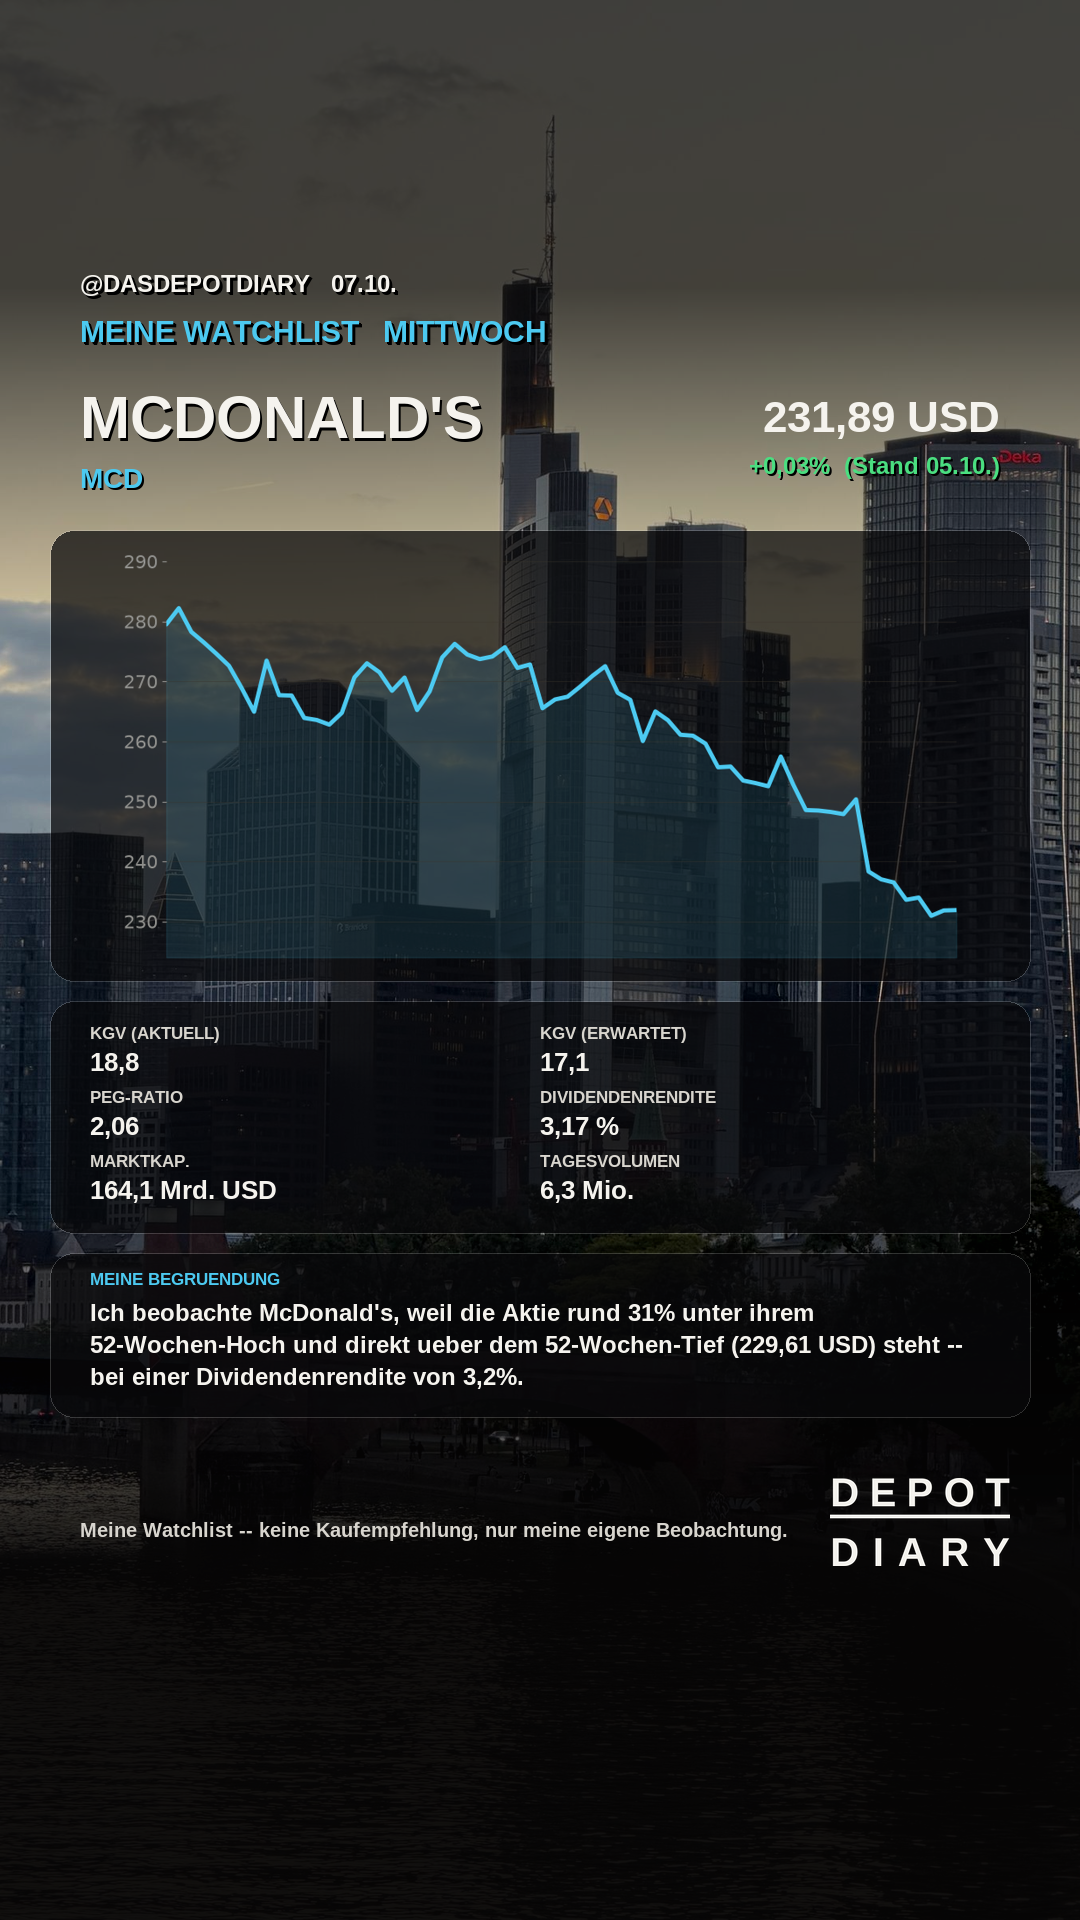
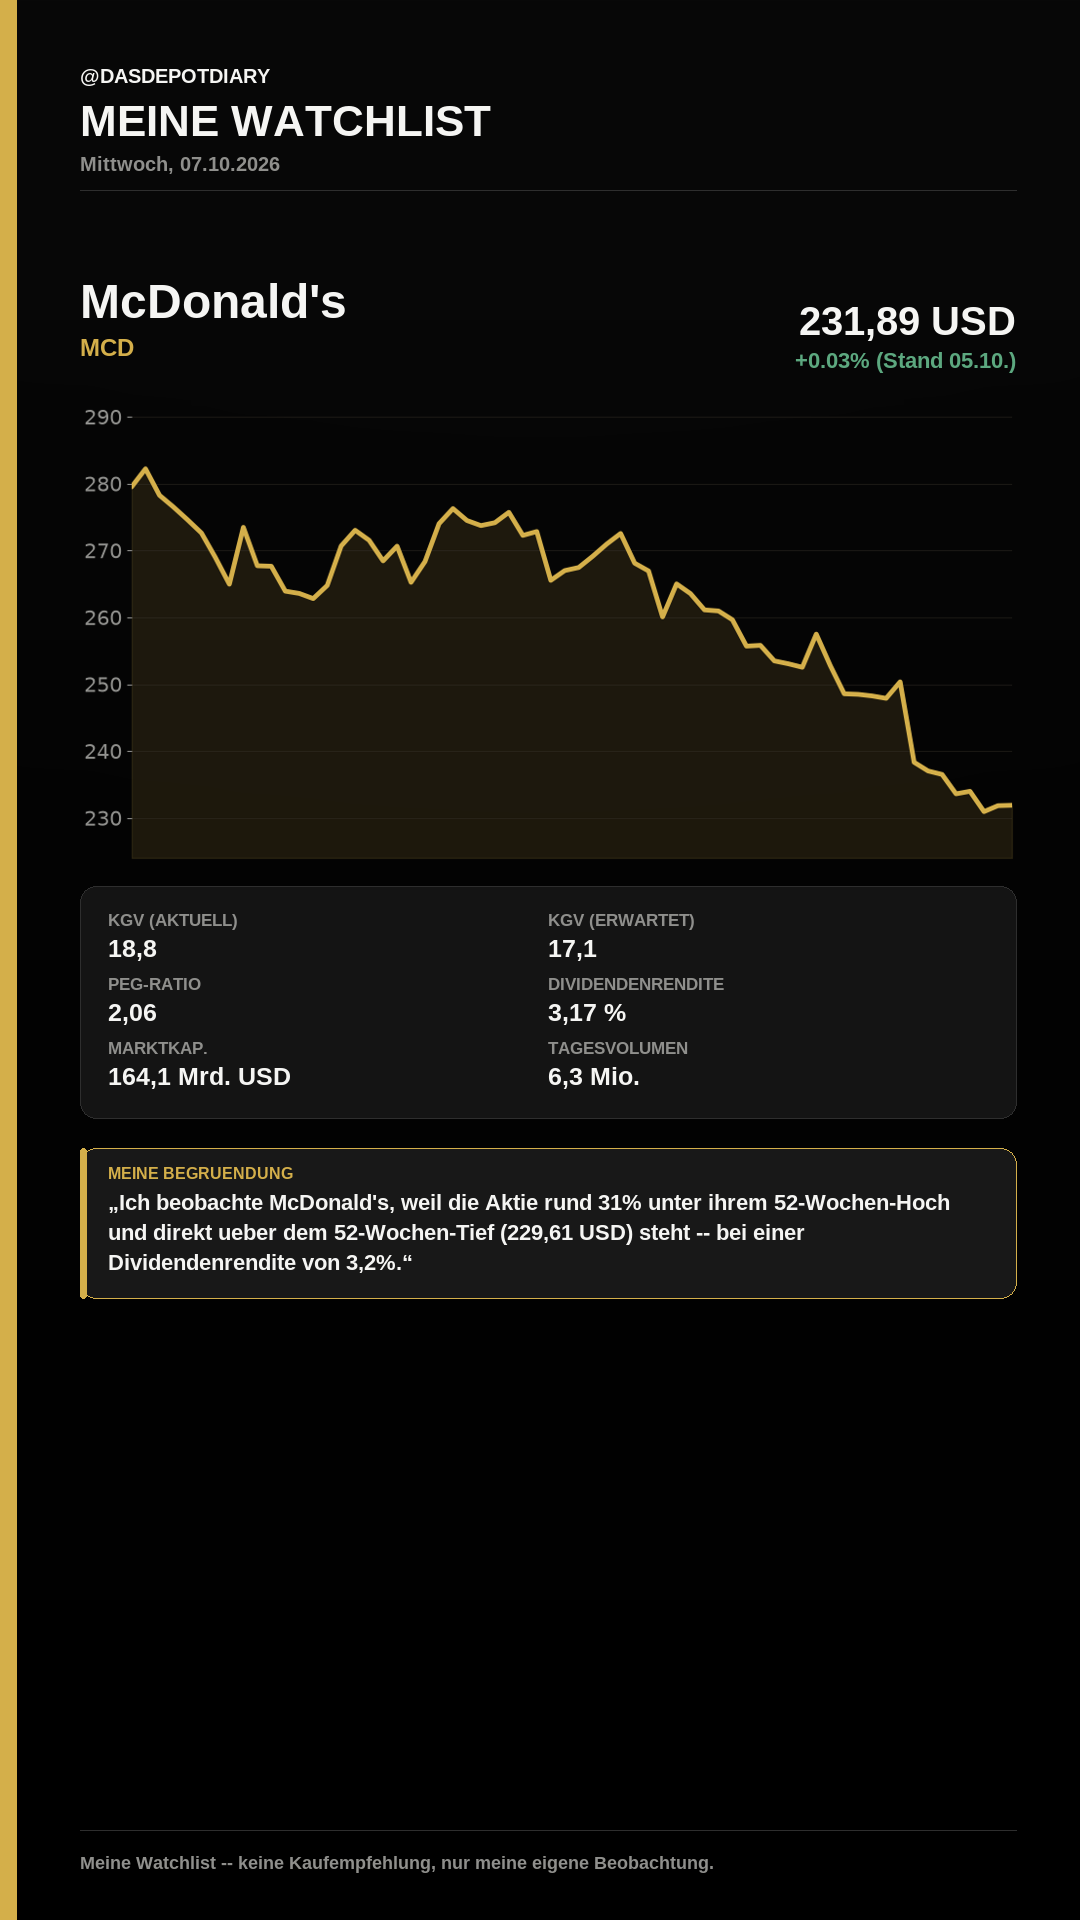
Watchlist zurueck im schlichten alten Design (Mi-Fr neu gerendert), Foto-Variante als story_watchlist_foto.py

diff --git a/posts/story_watchlist_foto.py b/posts/story_watchlist_foto.py
@@ -19,7 +19,9 @@ from PIL import Image, ImageDraw, ImageFont
 
 sys.path.insert(0, str(Path(__file__).parent.parent))
 sys.path.insert(0, str(Path(__file__).parent))
+sys.path.insert(0, str(Path(__file__).parent))
 import brand as B
+import style_finanzhafen as S
 from story_aktiencheck import (
     font, fmt_de, gradient_background, add_glow, render_chart,
     draw_range_bar, build_header, CARD, CARD_BORDER, CREAM, MUTED, GREEN, RED,
@@ -65,43 +67,19 @@ def wrap_text(draw, text, fnt, max_w):
 
 
 def slide_watchlist(entry, weekday_label):
-    img = gradient_background()
-    add_glow(img, W * 0.5, -100, 620, (40, 40, 40), strength=22)
-    draw = ImageDraw.Draw(img)
-    accent = entry.get("accent", OCHRE)
-    draw.rectangle([0, 0, B.BAR_WIDTH, H], fill=accent)
-
-    y = draw_watchlist_header(draw, 64, weekday_label, entry["date_label"])
-    y += 44
-
-    name_font = font(B.SANS_BOLD, 48)
-    ticker_font = font(B.SANS_BOLD, 24)
-    draw.text((B.MARGIN_LEFT, y), entry["name"], font=name_font, fill=CREAM)
-    y += 60
-    draw.text((B.MARGIN_LEFT, y), entry["ticker"], font=ticker_font, fill=accent)
-
-    price_font = font(B.SANS_BOLD, 40)
-    price_text = f"{fmt_de(entry['price'])} {entry.get('currency', 'USD')}"
-    pw = draw.textlength(price_text, font=price_font)
-    draw.text((W - B.MARGIN_RIGHT - pw, y - 36), price_text, font=price_font, fill=CREAM)
-    change = entry["change_pct"]
-    change_font = font(B.SANS_BOLD, 22)
-    change_text = f"{change:+.2f}% (Stand {entry['as_of']})"
-    cw = draw.textlength(change_text, font=change_font)
-    change_color = GREEN if change >= 0 else RED
-    draw.text((W - B.MARGIN_RIGHT - cw, y + 14), change_text, font=change_font, fill=change_color)
-    y += 70
+    """v3 (2026-10-06): depotdiary-Foto-Schema (Skyline-Foto, Glas-Karten fuer Chart,
+    Kennzahlen und Begruendung, vivide Akzentfarbe). Schnittstelle unveraendert."""
+    key = f"watchlist-{entry['date_label']}-{entry['ticker']}"
+    accent = S.accent_for(key)
+    img = S.story_background(S.photo_for(key), scrim_from=0.62, scrim_len=0.20)
 
     chart_path = OUTPUT / f"_chart_{entry['ticker']}.png"
     render_chart(entry["csv_path"], accent, chart_path)
     chart_img = Image.open(chart_path).convert("RGBA")
-    chart_w = W - B.MARGIN_LEFT - B.MARGIN_RIGHT
+    chart_w = 840
     chart_h = int(chart_img.height * chart_w / chart_img.width)
-    chart_img = chart_img.resize((chart_w, chart_h))
-    img.paste(chart_img, (B.MARGIN_LEFT, y), chart_img)
-    y += chart_h + 24
+    chart_card = (50, 530, S.SW - 50, 530 + chart_h + 40)
 
-    pad = 28
     if entry["kind"] == "stock":
         stats = [
             ("KGV (aktuell)", fmt_de(entry["pe"], 1)),
@@ -114,50 +92,62 @@ def slide_watchlist(entry, weekday_label):
     else:
         stats = [
             ("Marktkap. (ca.)", entry["market_cap"]),
-            ("7-Tage-Veraenderung", f"{entry['change_7d']:+.2f} %"),
+            ("7-Tage-Veraenderung", f"{entry['change_7d']:+.2f} %".replace(".", ",")),
             ("Tief (dargestellt)", f"{fmt_de(entry['range_low'])} USD"),
             ("Hoch (dargestellt)", f"{fmt_de(entry['range_high'])} USD"),
         ]
-
     rows = (len(stats) + 1) // 2
     row_h = 64
-    grid_h = rows * row_h
-    card_h = grid_h + 40
-    draw.rounded_rectangle([B.MARGIN_LEFT, y, W - B.MARGIN_RIGHT, y + card_h], radius=16, fill=CARD, outline=CARD_BORDER, width=1)
-    col_w = (W - B.MARGIN_LEFT - B.MARGIN_RIGHT - 2 * pad) / 2
-    label_font = font(B.SANS_BOLD, 17)
-    value_font = font(B.SANS_BOLD, 25)
+    kpi_top = chart_card[3] + 20
+    kpi_card = (50, kpi_top, S.SW - 50, kpi_top + rows * row_h + 40)
+
+    tmp = ImageDraw.Draw(Image.new("RGB", (10, 10)))
+    qf = S.font(24)
+    qlines = S.wrap_text(tmp, entry["quote"], qf, S.SW - 200)[:5]
+    q_top = kpi_card[3] + 20
+    quote_card = (50, q_top, S.SW - 50, q_top + 52 + len(qlines) * 32 + 16)
+
+    img = S.glass(img, [chart_card, kpi_card, quote_card], radius=24, alpha=182)
+    draw = ImageDraw.Draw(img)
+    S.draw_top(draw, accent, f"MEINE WATCHLIST   {weekday_label.upper()}", entry["date_label"][:6])
+
+    draw.text((82, 386), entry["name"].upper(), font=S.font(60), fill=(0, 0, 0))
+    draw.text((80, 383), entry["name"].upper(), font=S.font(60), fill=S.CREAM)
+    draw.text((82, 464), entry["ticker"], font=S.font(28), fill=(0, 0, 0))
+    draw.text((80, 462), entry["ticker"], font=S.font(28), fill=accent)
+    price_text = f"{fmt_de(entry['price'])} {entry.get('currency', 'USD')}"
+    pf = S.font(44)
+    pw = draw.textlength(price_text, font=pf)
+    draw.text((S.SW - 80 - pw, 392), price_text, font=pf, fill=S.CREAM)
+    change = entry["change_pct"]
+    ctext = f"{change:+.2f}%".replace(".", ",") + f"  (Stand {entry['as_of']})"
+    cf = S.font(24)
+    cw = draw.textlength(ctext, font=cf)
+    col = "#4ADE80" if change >= 0 else "#FF6B6B"
+    draw.text((S.SW - 80 - cw + 2, 454), ctext, font=cf, fill=(0, 0, 0))
+    draw.text((S.SW - 80 - cw, 452), ctext, font=cf, fill=col)
+
+    img.paste(chart_img.resize((chart_w, chart_h)), (120, chart_card[1] + 20), chart_img.resize((chart_w, chart_h)))
+    draw = ImageDraw.Draw(img)
+
+    pad = 40
+    col_w = (kpi_card[2] - kpi_card[0] - 2 * pad) / 2
     for i, (label, value) in enumerate(stats):
-        col = i % 2
-        row = i // 2
-        cx = B.MARGIN_LEFT + pad + col * col_w
-        cy = y + 24 + row * row_h
-        draw.text((cx, cy), label.upper(), font=label_font, fill=MUTED)
-        draw.text((cx, cy + 24), value, font=value_font, fill=CREAM)
-    y += card_h + 30
+        c, r = i % 2, i // 2
+        cx = kpi_card[0] + pad + c * col_w
+        cy = kpi_top + 22 + r * row_h
+        draw.text((cx, cy), label.upper(), font=S.font(17), fill=S.SOFT)
+        draw.text((cx, cy + 24), value, font=S.font(26), fill=S.CREAM)
 
-    # Begruendungs-Zitat-Karte
-    quote_font = font(B.SANS_BOLD_ITALIC if hasattr(B, "SANS_BOLD_ITALIC") else B.SANS_BOLD, 22)
-    quote_lines = wrap_text(draw, f"„{entry['quote']}“", quote_font, W - B.MARGIN_LEFT - B.MARGIN_RIGHT - 2 * pad)
-    quote_h = 40 + len(quote_lines) * 30 + 20
-    draw.rounded_rectangle([B.MARGIN_LEFT, y, W - B.MARGIN_RIGHT, y + quote_h], radius=16, fill="#181818", outline=accent, width=1)
-    draw.rounded_rectangle([B.MARGIN_LEFT, y, B.MARGIN_LEFT + 6, y + quote_h], radius=3, fill=accent)
-    label_font2 = font(B.SANS_BOLD, 16)
-    draw.text((B.MARGIN_LEFT + pad, y + 16), "MEINE BEGRUENDUNG", font=label_font2, fill=accent)
-    qy = y + 42
-    for line in quote_lines:
-        draw.text((B.MARGIN_LEFT + pad, qy), line, font=quote_font, fill=CREAM)
-        qy += 30
+    draw.text((quote_card[0] + pad, q_top + 16), "MEINE BEGRUENDUNG", font=S.font(17), fill=accent)
+    qy = q_top + 46
+    for line in qlines:
+        draw.text((quote_card[0] + pad, qy), line, font=qf, fill=S.CREAM)
+        qy += 32
 
-    text = "Meine Watchlist -- keine Kaufempfehlung, nur meine eigene Beobachtung."
-    disclaimer_font = font(B.SANS_BOLD, 18)
-    draw.line([(B.MARGIN_LEFT, H - 90), (W - B.MARGIN_RIGHT, H - 90)], fill=CARD_BORDER, width=1)
-    dis_lines = wrap_text(draw, text, disclaimer_font, W - B.MARGIN_LEFT - B.MARGIN_RIGHT)
-    dy = H - 68
-    for line in dis_lines:
-        draw.text((B.MARGIN_LEFT, dy), line, font=disclaimer_font, fill=MUTED)
-        dy += 22
-
+    draw.text((80, S.SAFE_BOTTOM - 62), "Meine Watchlist -- keine Kaufempfehlung, nur meine eigene Beobachtung.",
+              font=S.font(20), fill=S.SOFT)
+    S.draw_wordmark(img)
     chart_path.unlink(missing_ok=True)
     return img
 
